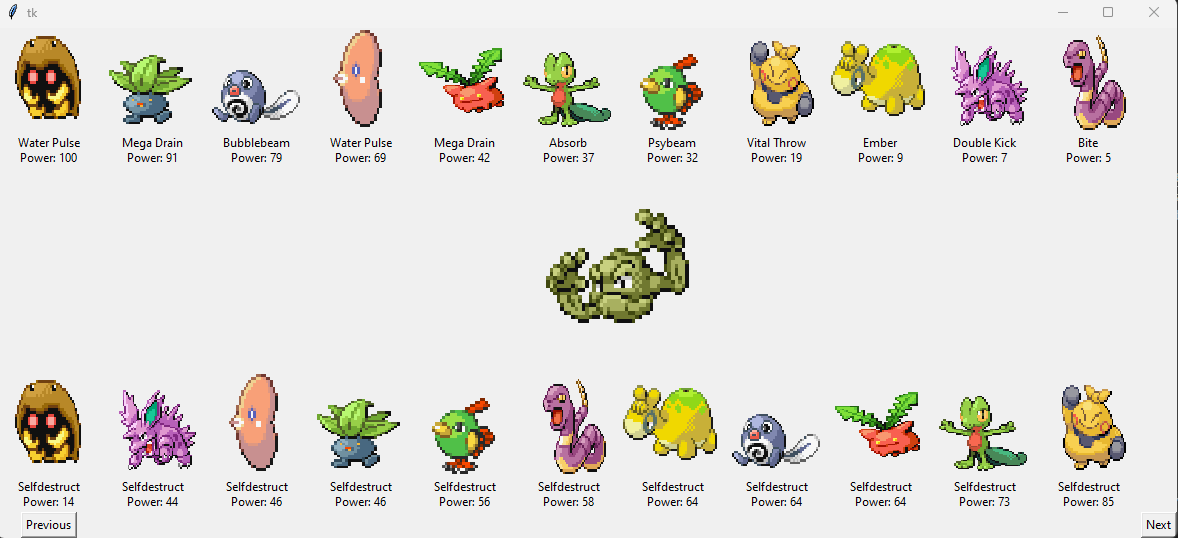
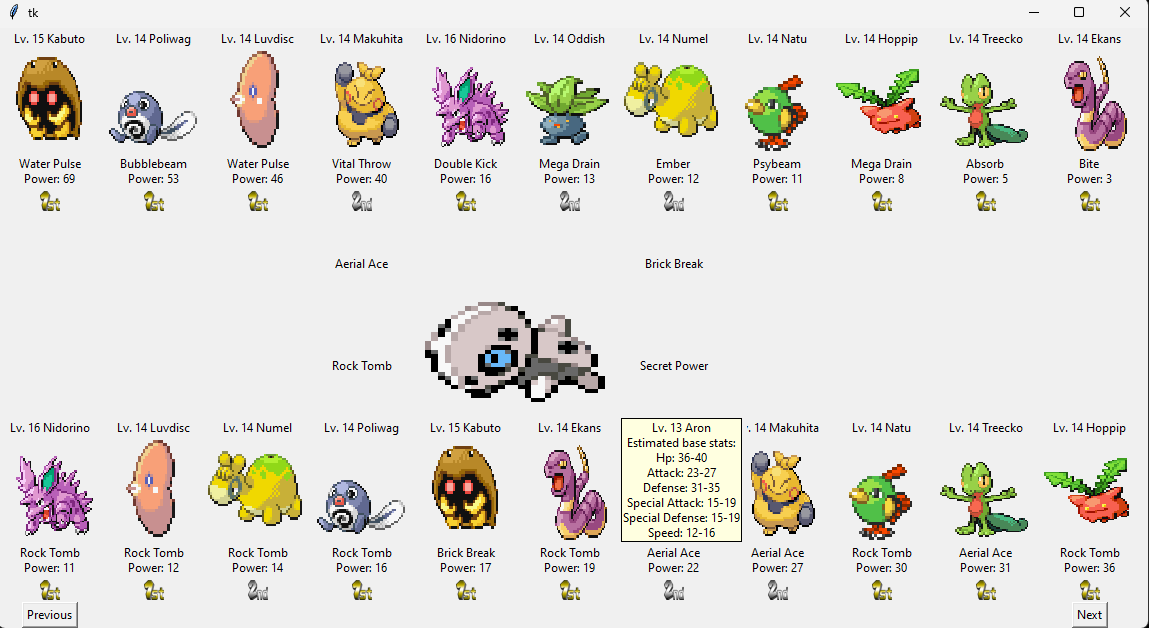
Updated readme and examples

diff --git a/README.md b/README.md
@@ -4,9 +4,11 @@ A Python-based app that should make your Emerald Kaizo experience a (little) bit
 
 ![Example Image](images/example.png)
 
-In the above example, picking Kabuto is both an offensive and defensive no-brainer! The Zubat however takes a little more planning.
+In the above example, Kabuto, Poliwag and Luvsic go first and deal enough damage to one-shot the foe's Aron. Makuhita might still one-shot, but will probably go second, making it a considerably worse pick.
 
 ![Example Image2](images/example2.png)
+
+In the above example, despite dealing massive damage, Kabuto is a terrible pick. It will go second, and will likely take 44 damage on an HP-bar of 37.
 
 What it does
 ---------------------------
